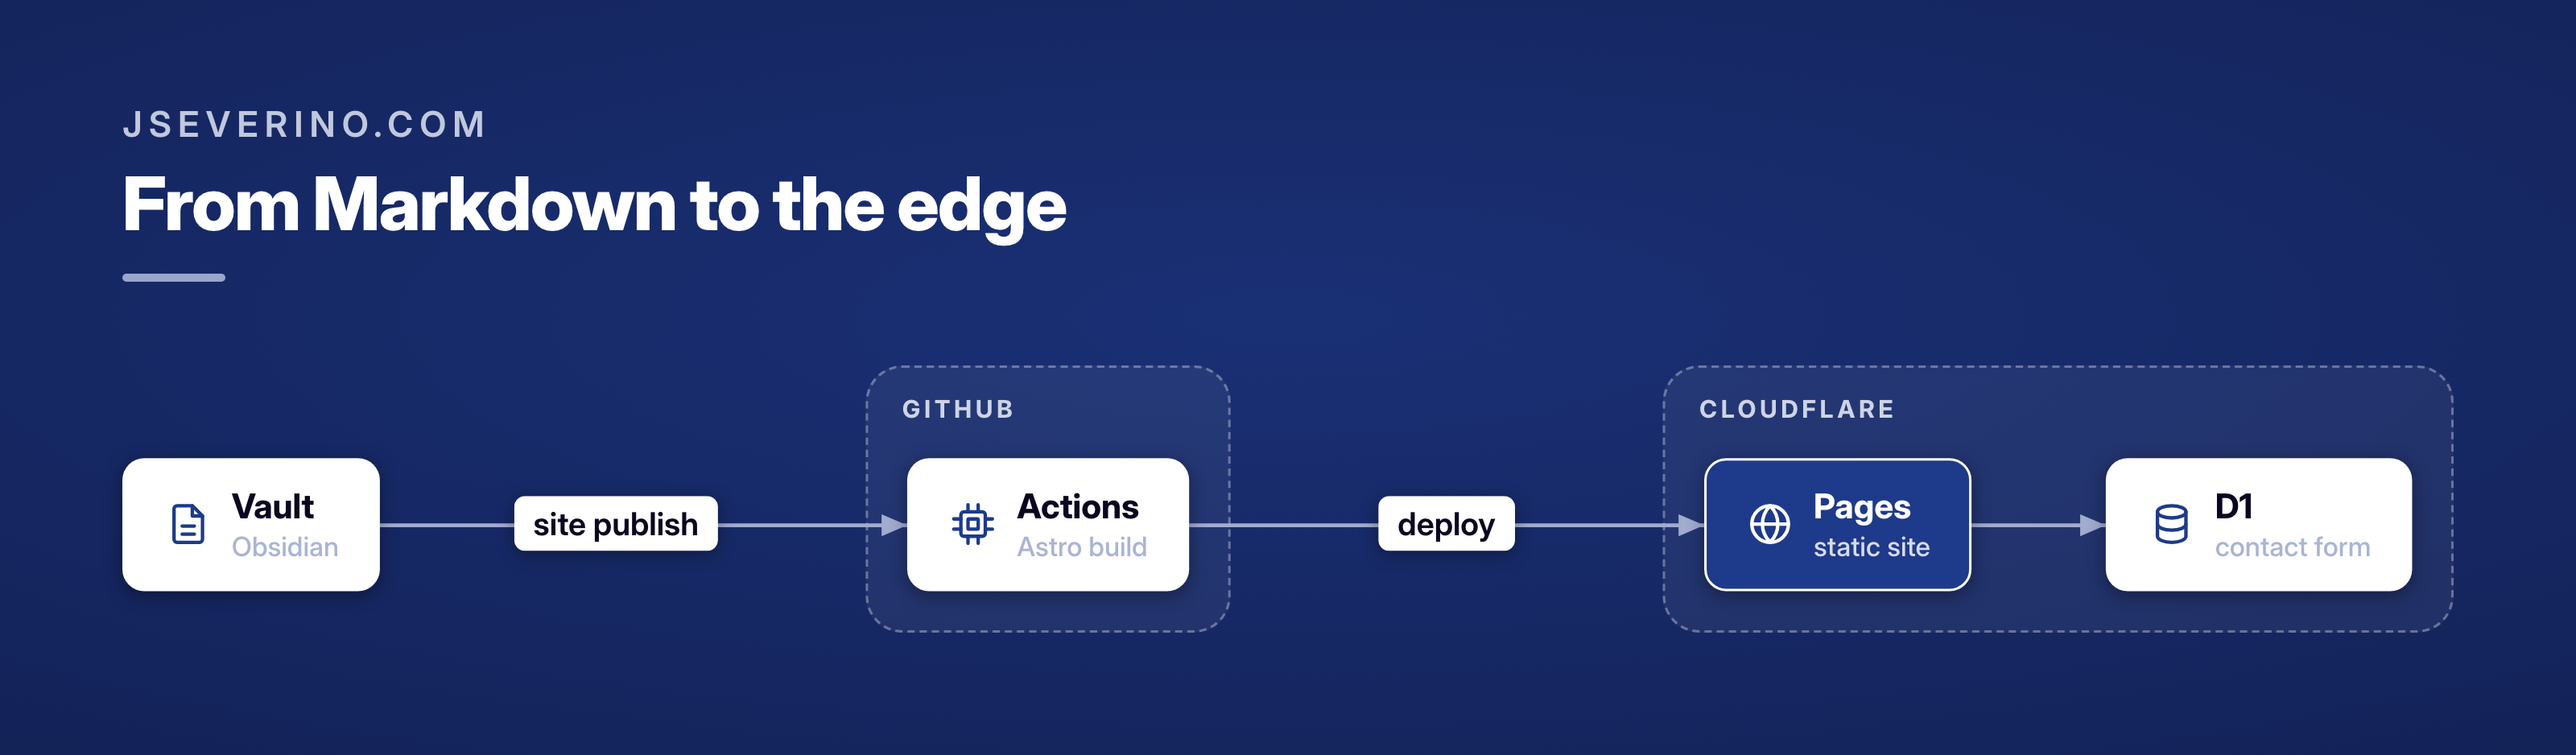
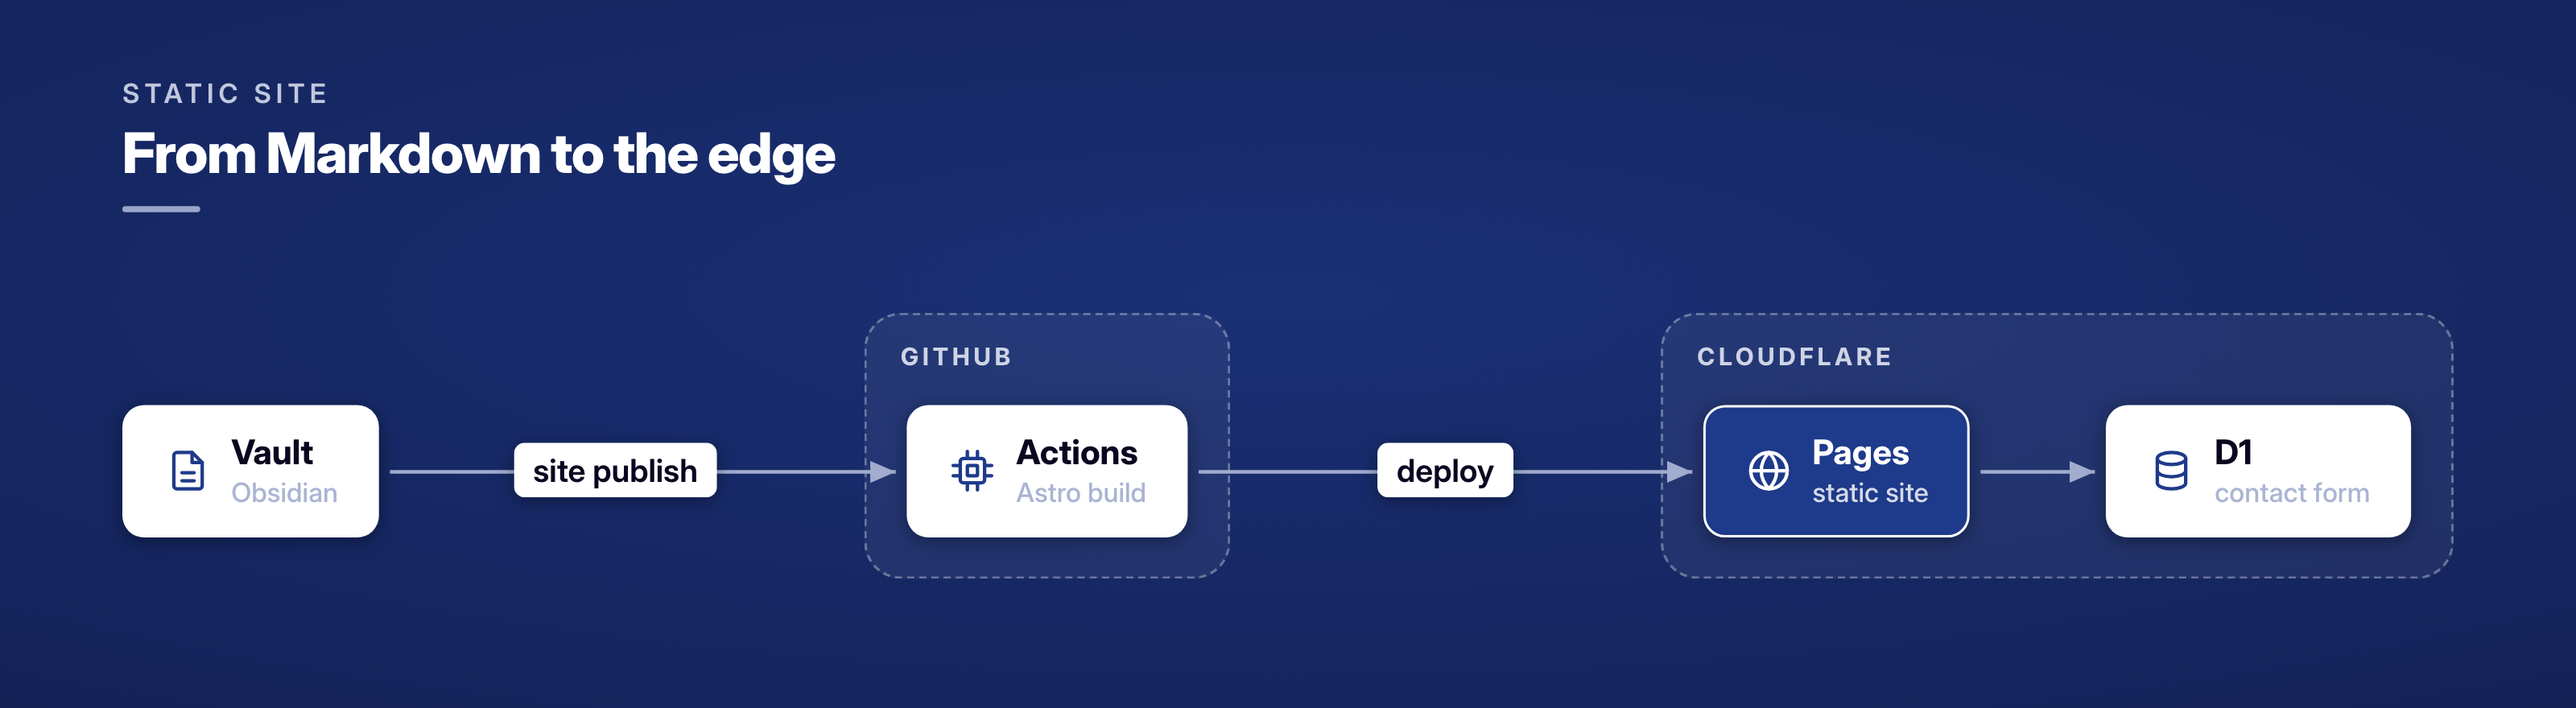
docs(figure): generic examples, upgrade notes, changelog entry

Changed region(s): [[0.0312, 0.4909, 0.9375, 0.7977], [0.0312, 0.1227, 0.4375, 0.3375], [0.0625, 0.3375, 0.0938, 0.3989]]

diff --git a/README.md b/README.md
@@ -426,42 +426,60 @@ every label, keeps labels off lines, draws groups, and fits the result to the fr
 
 ```text
 title: Secrets flow
-subtitle: 1Password
+subtitle: secret store
 
-Mac [icon: laptop, note: Touch ID]
-1Password [icon: key, anchor]
-Homelab [dashed] {
-  homelab-server [icon: server, note: Connect on loopback]
-  Pocket ID [icon: lock]
+Laptop [icon: laptop, note: Touch ID]
+Secret store [icon: key, anchor]
+Private network [dashed] {
+  app-server [icon: server, note: renders hourly]
+  Identity provider [icon: lock]
+  Container UI [icon: container]
 }
-Mac <> 1Password: SSH · sudo [dashed]
-1Password > homelab-server: read-only tokens
-homelab-server > Pocket ID
+Cloud VM [icon: cloud, note: service account]
+
+Laptop <> Secret store: SSH · sudo [dashed]
+Secret store > app-server: read-only token
+Secret store > Cloud VM: one vault
+app-server > Identity provider, Container UI: inject
 ```
 
-![Secrets flow rendered from the .fig above](./examples/figures/secrets-flow.png)
+![Secrets flow rendered from the .fig above](https://raw.githubusercontent.com/joeseverino/branding-engine/main/examples/figures/secrets-flow.png)
 
 - **Nodes**: `Name [props]`. The name is the id and the default label; a name first used in a
   connection becomes a plain node. Props are `key: value` pairs or flags: `anchor`, `attacker`,
-  `muted` (role), `box` (shape).
+  `muted` (role), `box` (shape). Quote a name that holds an arrow, a comma or `: `
+  (`"Build > Test"`).
 - **Arrows** (spaces around them): `>` `<` `<>` `-` are solid, `-->` `<--` `<-->` `--` are dashed.
   `->`, `<-`, `<->` also work. Chain them (`A > B > C`), fan out (`A > B, C`), label with
-  `: text`, and add link props at the end: `A > B: text [dotted, accent, width: 4]`.
-- **Groups**: `Label [dashed] { ... }`, nested as deep as needed.
+  `: text`, and add link props at the end: `A > B: text [dotted, accent, width: 4]`. A link
+  from a node to itself, or an arrow with nothing on one side, is an error.
+- **Groups**: `Label [dashed] { ... }`, nested as deep as needed. Declaring a node inside a
+  group (its name on its own line, or with `[props]`) puts it there; a name first mentioned in a
+  link inside a group joins it unless it is declared elsewhere. A node sits in one group.
 - **Directives**: `title`, `subtitle`, `layout`, `direction` (`right` default, `down`, `left`,
-  `up`), `routing` (`straight`, `orthogonal`, `curved`), `theme`, `size` (`cover` or `1600x900`),
-  `textScale`, `nodeScale`, `spread`.
-- Quote values that hold commas or `#`; `\n` breaks a line. `#` and `//` start comments.
+  `up`), `routing` (`orthogonal` default, `straight`, `curved`), `theme`, `size` (`cover` or
+  `1600x900`), `textScale`, `nodeScale`, `spread`. An unknown directive is an error with a
+  suggestion (`layot: auto` → did you mean `layout`?), and so is Mermaid-style `A->B`.
+- Quote values that hold commas; `\n` breaks a line. `#` and `//` start a comment at the start
+  of a line or after a space, so `C#` and `https://` are safe. Every problem in a file is reported
+  at once, with its line number.
 
-Examples: [`examples/figures/`](./examples/figures) (a nested-group tailnet, a star lab, a
+Examples: [`examples/figures/`](./examples/figures) (a nested-group mesh network, a star lab, a
 dark pipeline of box nodes).
 
 ### Warnings and `--strict`
 
 After layout the engine checks its own work and prints a `warn` line for anything a reviewer
 would catch by eye: labels that overlap each other, a node, or a link; a group that covers a node
-it does not contain; text scaled below 70% to fit the frame. `--strict` turns any warning into a
-failure, for CI or for an agent that cannot look at the PNG.
+it does not contain; an empty group or a self-link in a JSON spec (neither is drawn); text scaled
+below 70% to fit the frame. `--strict` turns any warning into a failure and writes nothing, for
+CI or for an agent that cannot look at the PNG.
+
+Before warning about small text, `auto` layout tries to fix it: it wraps a long run into rows
+that still read left to right, tries top to bottom when no `direction` was set, and finally
+shrinks circles and gaps (never the text). A graph that is wide by nature (eight or more nodes in
+one chain of steps, plus groups) can still land under 70%: split it, or set a `size` and accept
+the warning.
 
 ### JSON specs
 
@@ -472,12 +490,12 @@ directly. Every key is validated: an unknown key or value fails with its path an
 | Top level | Default | Notes |
 |---|---|---|
 | `template` | (required) | `topology` / `diagram`, or a classic template below |
-| `layout` | `auto` (`star` if any node has `pos`, `free` if any has `at`) | `auto`, `star`, `ring`, `row`, `grid`, `free` |
+| `layout` | `auto` (`star` if any node has `pos`, `free` if any has `at`, `row` if the spec has no `links` key) | `auto`, `star`, `ring`, `row`, `grid`, `free` |
 | `size` | content-sized, 1600 wide (`star`/`ring`: `topo`) | preset (`cover` 1600×900, `wide`, `topo` 1500×1000, `og`, `github`, `square`) or `[w, h]`; content is scaled to fit and centered |
 | `theme` | `light` | `light` or `dark` |
 | `title`, `subtitle` | none | header in the cover style |
-| `direction`, `routing` | `right`, `straight` | `auto` layout only |
-| `textScale`, `nodeScale`, `spread` | `1` | text size, circle size, spacing multipliers |
+| `direction`, `routing` | `right`, `orthogonal` | `auto` layout only. With no `direction`, a figure too wide to read may wrap or turn to `down` |
+| `textScale`, `nodeScale`, `spread` | `1` | text size, circle size, spacing multipliers. In `topology` specs with a fixed layout (`star`, `ring`, `row`, `free`), a `nodeScale` under 0.5 is read the old way, as a fraction of the frame (0.16 was the default) |
 | `fit` | `true` | `false` keeps layout scale (still centered) |
 | `colors` | from `--tokens` | inline `{ accent, deep, onAccent, ink, paper }` |
 
@@ -501,7 +519,7 @@ directly. Every key is validated: an unknown key or value fails with its path an
 | `label` | a chip on the line |
 | `fromLabel`, `toLabel` | small text past each arrowhead (an IP octet) |
 | `dir` | `to`, `from`, `both` (default), `none` |
-| `style` | `solid`, `dashed`, `dotted` |
+| `style` | `solid`, `dashed` (real dashes; the round-dot look of 0.7 and earlier is `dotted`), `dotted` |
 | `color`, `width` | `accent` draws an overlay/attack path with a bordered chip |
 | `curve` | bend as a fraction of length (fixed layouts); parallel links bend apart on their own |
 
@@ -516,6 +534,18 @@ Layouts: `auto` (ELK, the default), `star` (hub and spokes, straight by construc
 label takes the widest gap), `ring`, `row` (a chain; omitting `links` chains the nodes in
 order), `grid`, and `free` (explicit `at`). The fixed layouts place link chips and node labels
 by scoring candidate spots against every line, node and label.
+
+### Upgrading from 0.7
+
+- `TEMPLATES.topology` and `TEMPLATES.diagram` are the marker string `'graph'`, not a render
+  function: graph figures measure their text in the page, so render them with `renderFigure`.
+- `figureSize(spec)` returns `null` for a graph with no `size` and a non-radial layout, since its
+  canvas follows the drawing.
+- Specs are validated: unknown keys and values that used to be ignored now throw
+  `FigureSpecError`, and a link to a missing node is an error instead of being dropped.
+- A spec with links but no `layout` and no positions now gets `auto` layout (it used to be a
+  row). A spec with no `links` key still chains its nodes in a row.
+- `style: dashed` draws real dashes; use `dotted` for the old look.
 
 ### Classic templates
 
@@ -633,6 +663,13 @@ Main exports:
 - `normalizeGlyph(glyph)`
 - `renderCard(browser, options)`
 - `launchBrowser()`
+- `makeFigure(options)` / `readSpec(path)`: render a `.fig` or JSON spec file; `strict: true`
+  throws on warnings before anything is written
+- `renderFigure(browser, spec, options)`: one spec on a caller-owned browser, returning the PNG
+  buffer and its `warnings`
+- `parseFig(text)`: `.fig` text to a JSON spec; throws `FigureSpecError` (with `.errors`)
+- `figureSize(spec)`: the canvas for classic and radial specs; `null` for content-sized graphs
+- `palette(theme, tokens)` / `SIZES` / `TEMPLATES`
 
 ## Fonts and Glyph Extraction
 

diff --git a/CHANGELOG.md b/CHANGELOG.md
@@ -2,6 +2,22 @@
 
 All notable changes to this project are documented here.
 
+## Unreleased
+
+- Rebuild the `topology` figure (alias `diagram`) as a graph engine: a `.fig`
+  text format, ELK automatic layout with orthogonal routing, measured labels
+  kept off lines, nested groups, box nodes, a title header, dark-theme-aware
+  colors, and a fit that never clips. Long figures wrap into rows before text
+  is shrunk. Thirteen new glyphs.
+- Validate every figure spec, with suggestions, and report every `.fig`
+  problem at once with line numbers. Print warnings for overlaps, small text,
+  empty groups and self-links; `--strict` fails on any warning and writes
+  nothing.
+- Breaking: `TEMPLATES.topology` is no longer a render function, `figureSize`
+  returns `null` for content-sized graphs, unknown spec keys throw, a spec
+  with links but no layout gets `auto` layout, and `style: dashed` draws real
+  dashes (`dotted` keeps the old look). See "Upgrading from 0.7" in the README.
+
 ## 0.7.0 - 2026-08-09
 
 - Add `renderMarkSet`, the shared in-memory mark contract now used by both

diff --git a/AGENTS.md b/AGENTS.md
@@ -47,7 +47,7 @@ npm i -D @playwright/test && npx playwright install chromium
   `generated/` output, used as a snapshot in tests.
 - `examples/figures/` — showcase `.fig` sources and their renders. Re-render
   after a visual change: `for f in examples/figures/*.fig; do node bin/cli.mjs
-  figure "$f"; done`.
+  figure "$f" --strict; done`. Keep them generic: no real hosts or services.
 - `test/` — `smoke.test.mjs` (browser-free), `browser.test.mjs` (snapshot),
   `figure.test.mjs` and `figure-graph.test.mjs` (DSL, validation, layout,
   placement, fit, render).
